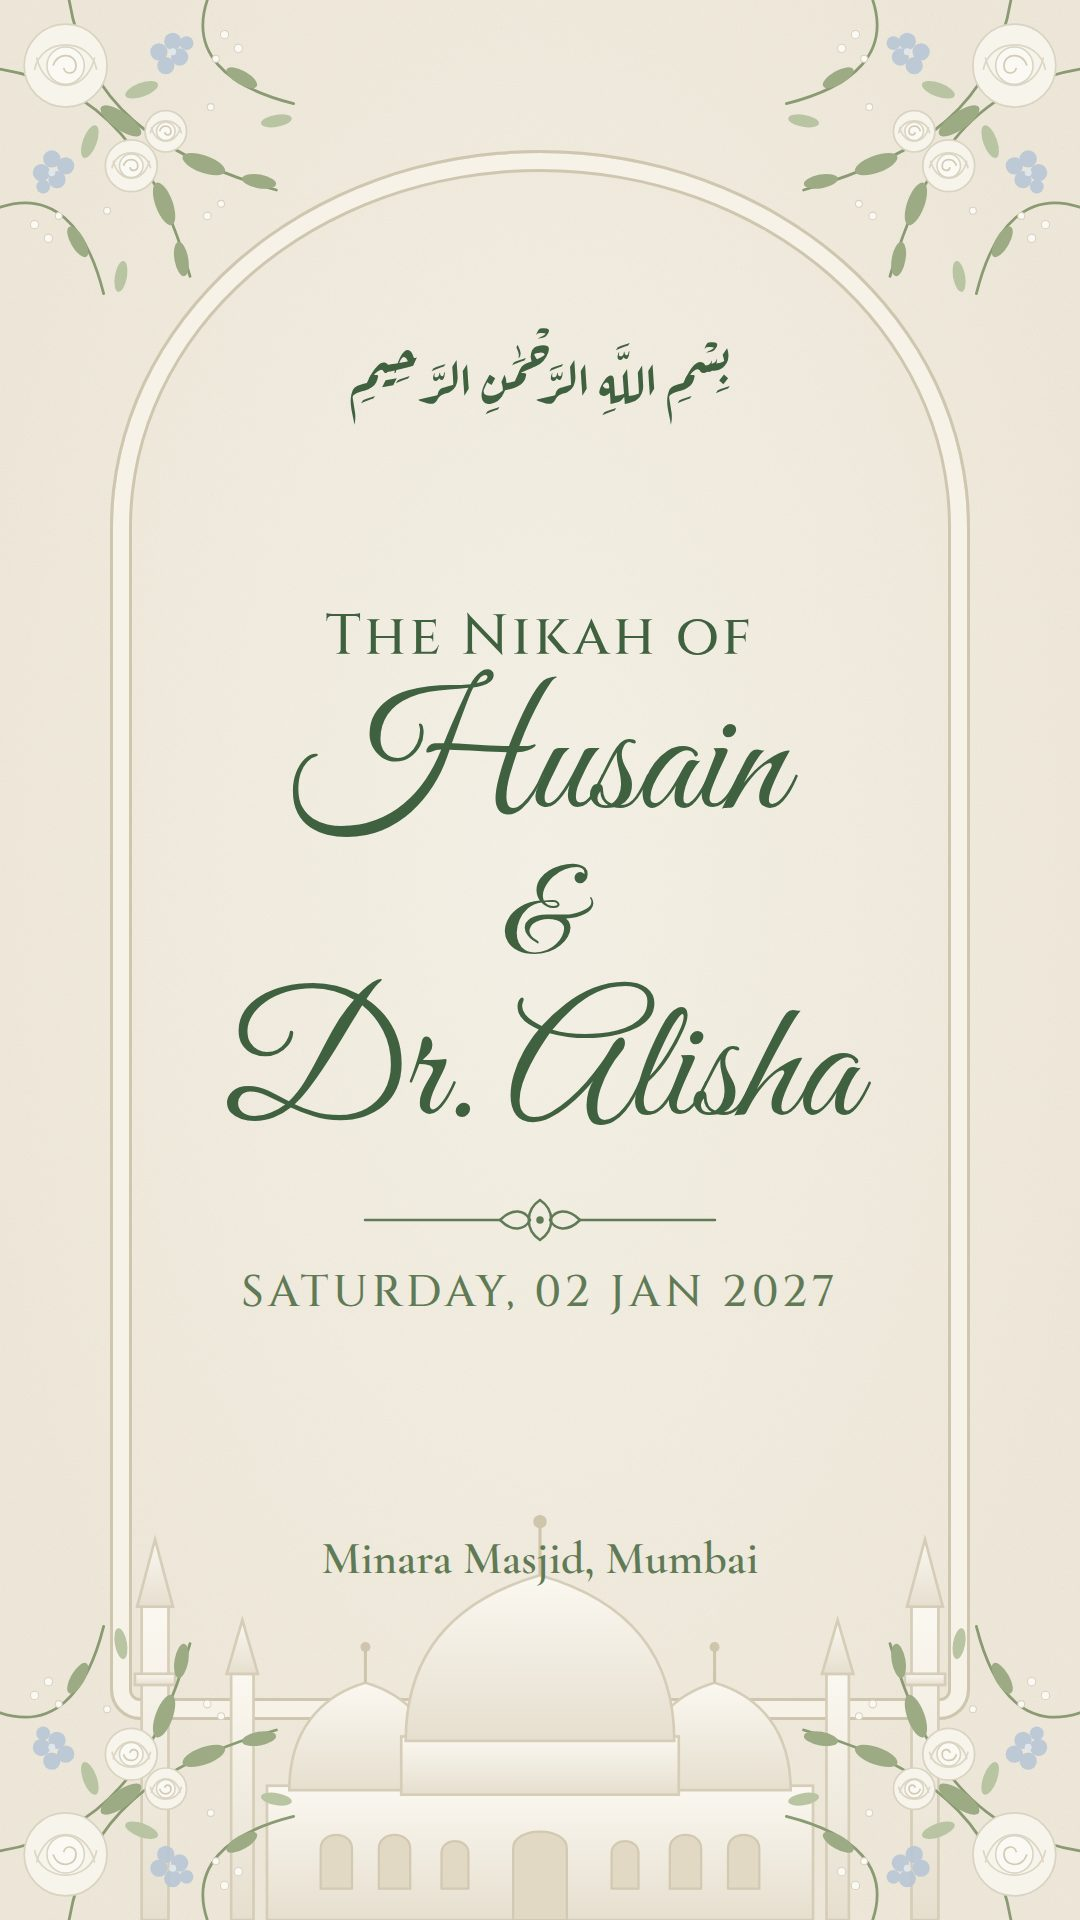
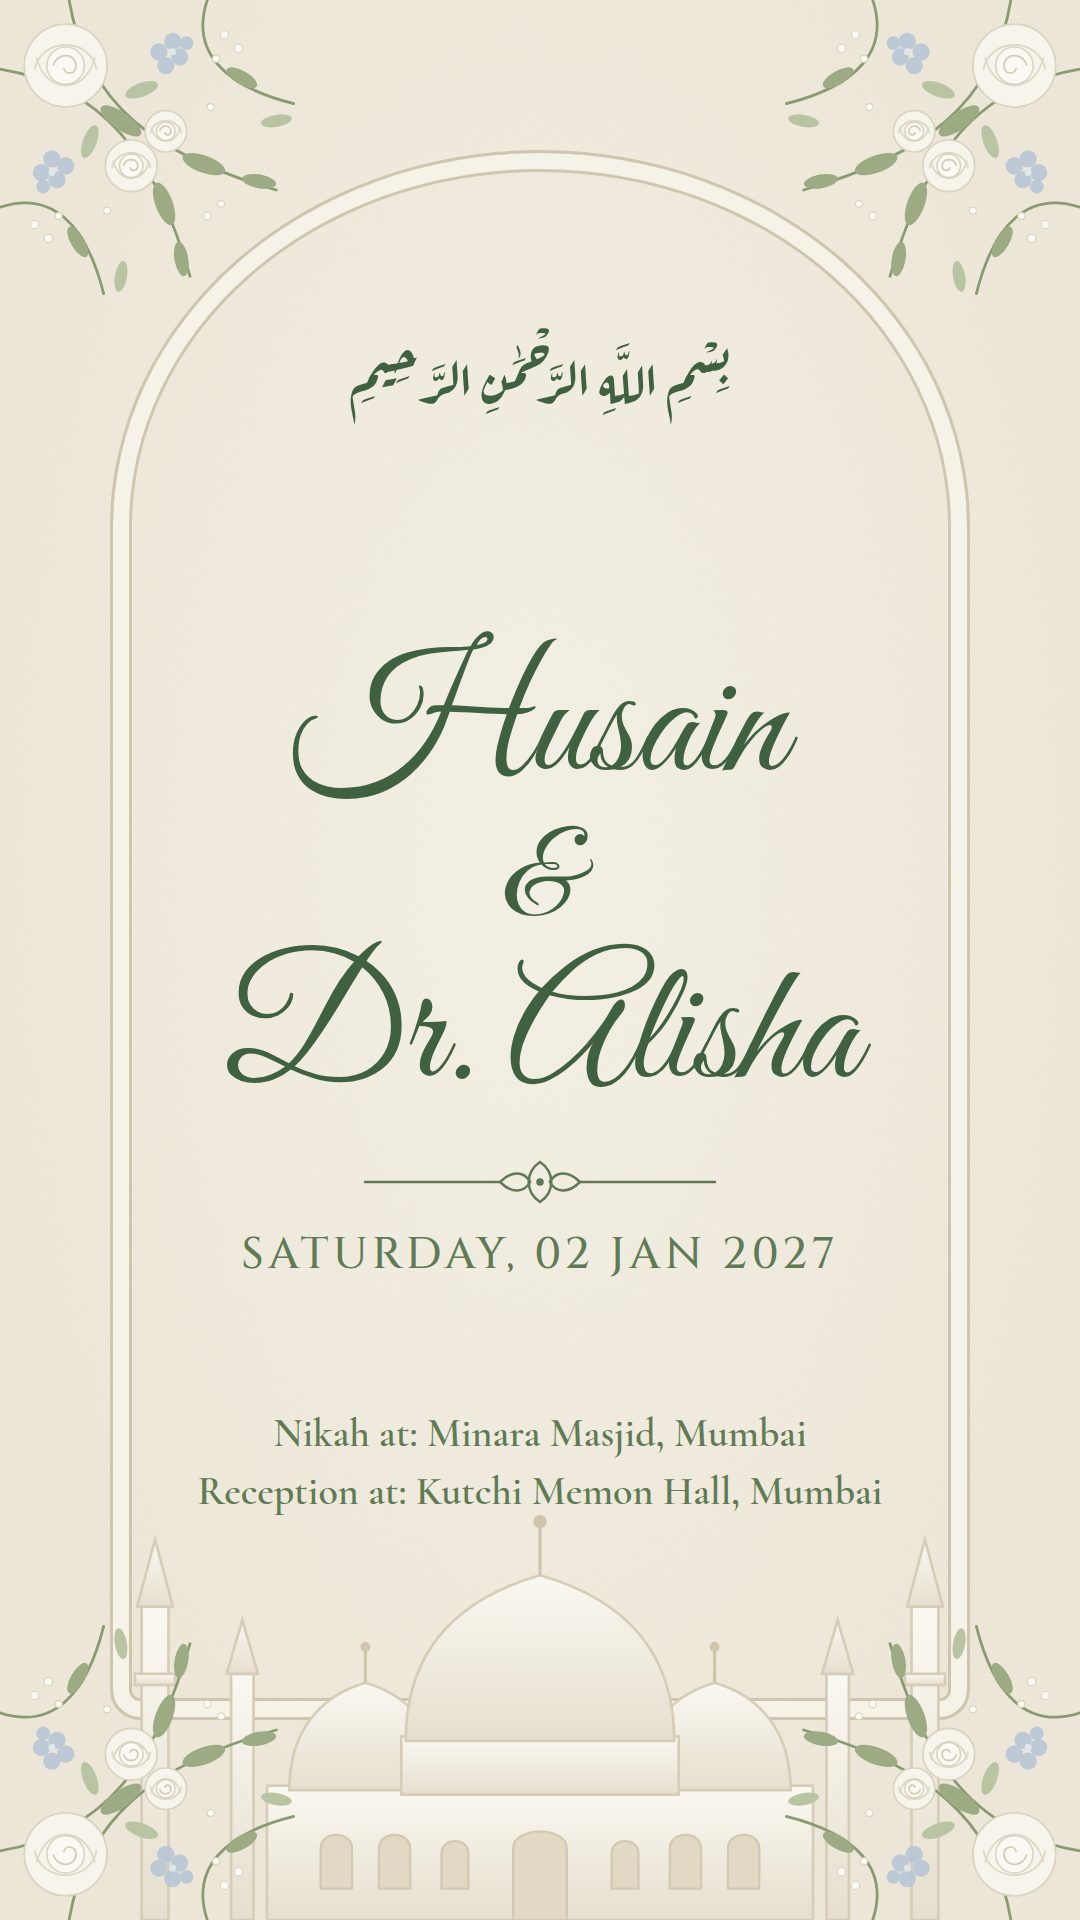
changes

diff --git a/walima/index.html b/walima/index.html
@@ -9,7 +9,7 @@
   <!-- Link preview for the /walima link. URLs must be absolute: update them if the site address changes -->
   <meta property="og:type" content="website" />
   <meta property="og:url" content="https://mdhusainthekiya.github.io/invite/walima/" />
-  <meta property="og:title" content="The Walima of Husain &amp; Alisha" />
+  <meta property="og:title" content="The Wedding Invitation - Thekiya family" />
   <meta property="og:description" content="Sunday, 03 Jan 2027 · Kutchi Memon Hall, Mumbai. Tap to open your invitation." />
   <meta property="og:image" content="https://mdhusainthekiya.github.io/invite/assets/preview-walima-vertical.jpg" />
   <meta property="og:image:width" content="1080" />

diff --git a/index.html b/index.html
@@ -11,7 +11,7 @@
   <!-- Link preview (WhatsApp, Facebook, etc.). URLs must be absolute: update them if the site address changes -->
   <meta property="og:type" content="website" />
   <meta property="og:url" content="https://mdhusainthekiya.github.io/invite/" />
-  <meta property="og:title" content="The Nikah of Husain &amp; Alisha" />
+  <meta property="og:title" content="The Wedding Invitation - Thekiya family" />
   <meta property="og:description" content="Saturday, 02 Jan 2027 · Minara Masjid, Mumbai. Tap to open your invitation." />
   <meta property="og:image" content="https://mdhusainthekiya.github.io/invite/assets/preview-vertical.jpg" />
   <meta property="og:image:width" content="1080" />
